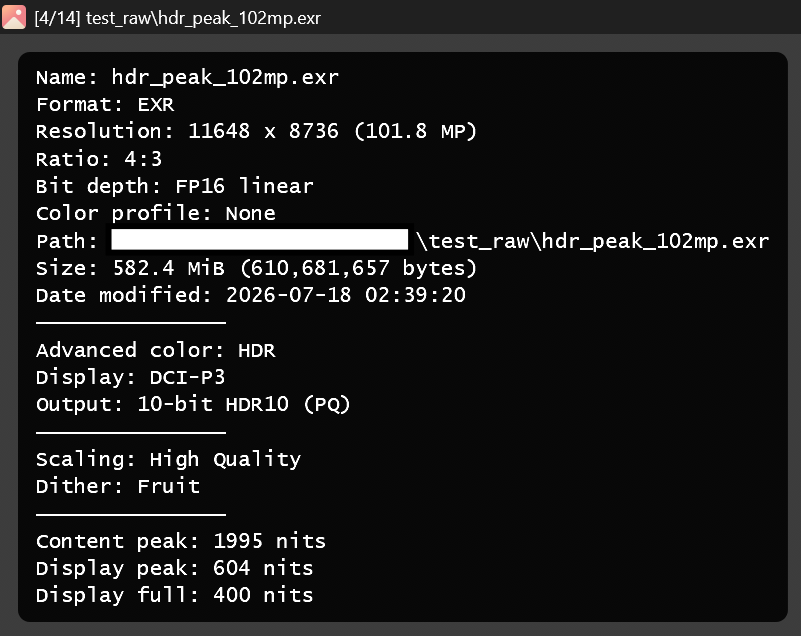
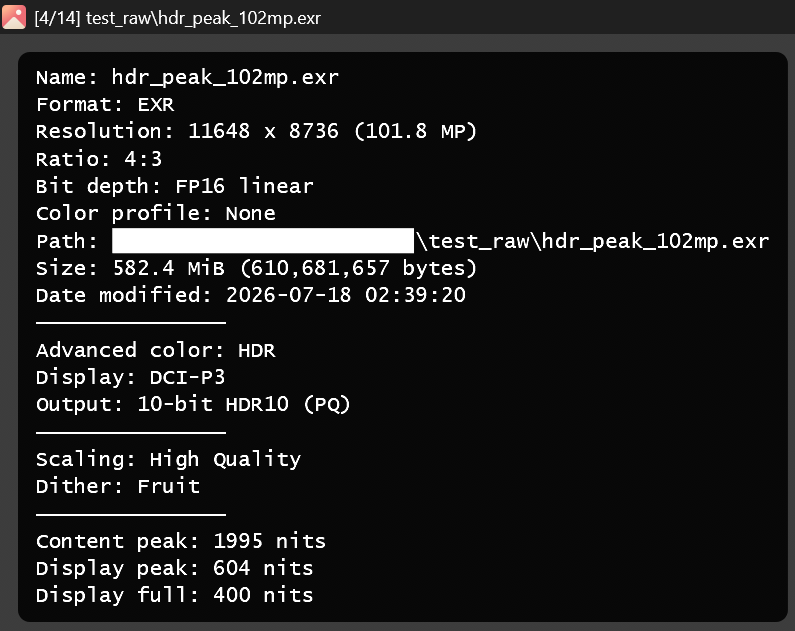
Document EDID gamut mapping and refresh the info panel screenshot

Changed region(s): [[0.0302, 0.0903, 0.9962, 0.9937], [0.0302, 0.0, 0.3925, 0.0602], [0.2415, 0.1807, 0.6038, 0.2409]]

diff --git a/README.md b/README.md
@@ -12,18 +12,16 @@ A fast, precise, minimal image viewer for Windows.
 
 - Rendering
   - FP16 linear render pipeline, FP16 scRGB output
-  - HDR passthrough on HDR displays
-  - HDR tone-mapped on SDR displays
+  - HDR passthrough on HDR displays, HDR tone-mapped on SDR displays
   - Native 10-bit output on deep-color displays
   - Output dither: Ordered or Fruit shader
-  - Color management: embedded ICC, PQ/HLG, Windows Advanced Color with WCG
+  - Color management: Windows Advanced Color with WCG, PQ/HLG, embedded ICC, EDID gamut mapping
 - Browsing
   - Browse images inside archives (via archiveint.dll, shipped with Windows)
   - Open http/https image URLs (via curl.exe, shipped with Windows)
   - Animation playback with pause, frame stepping, speed control
   - Configurable preloading that follows the browsing direction
 - Application
-  - Info panel: file metadata, display color, HDR luminance, EXIF
   - Customizable keyboard and mouse shortcuts
   - Per-extension file associations, reversible with no registry leftovers
   - Single portable executable (~7 MB), no installation